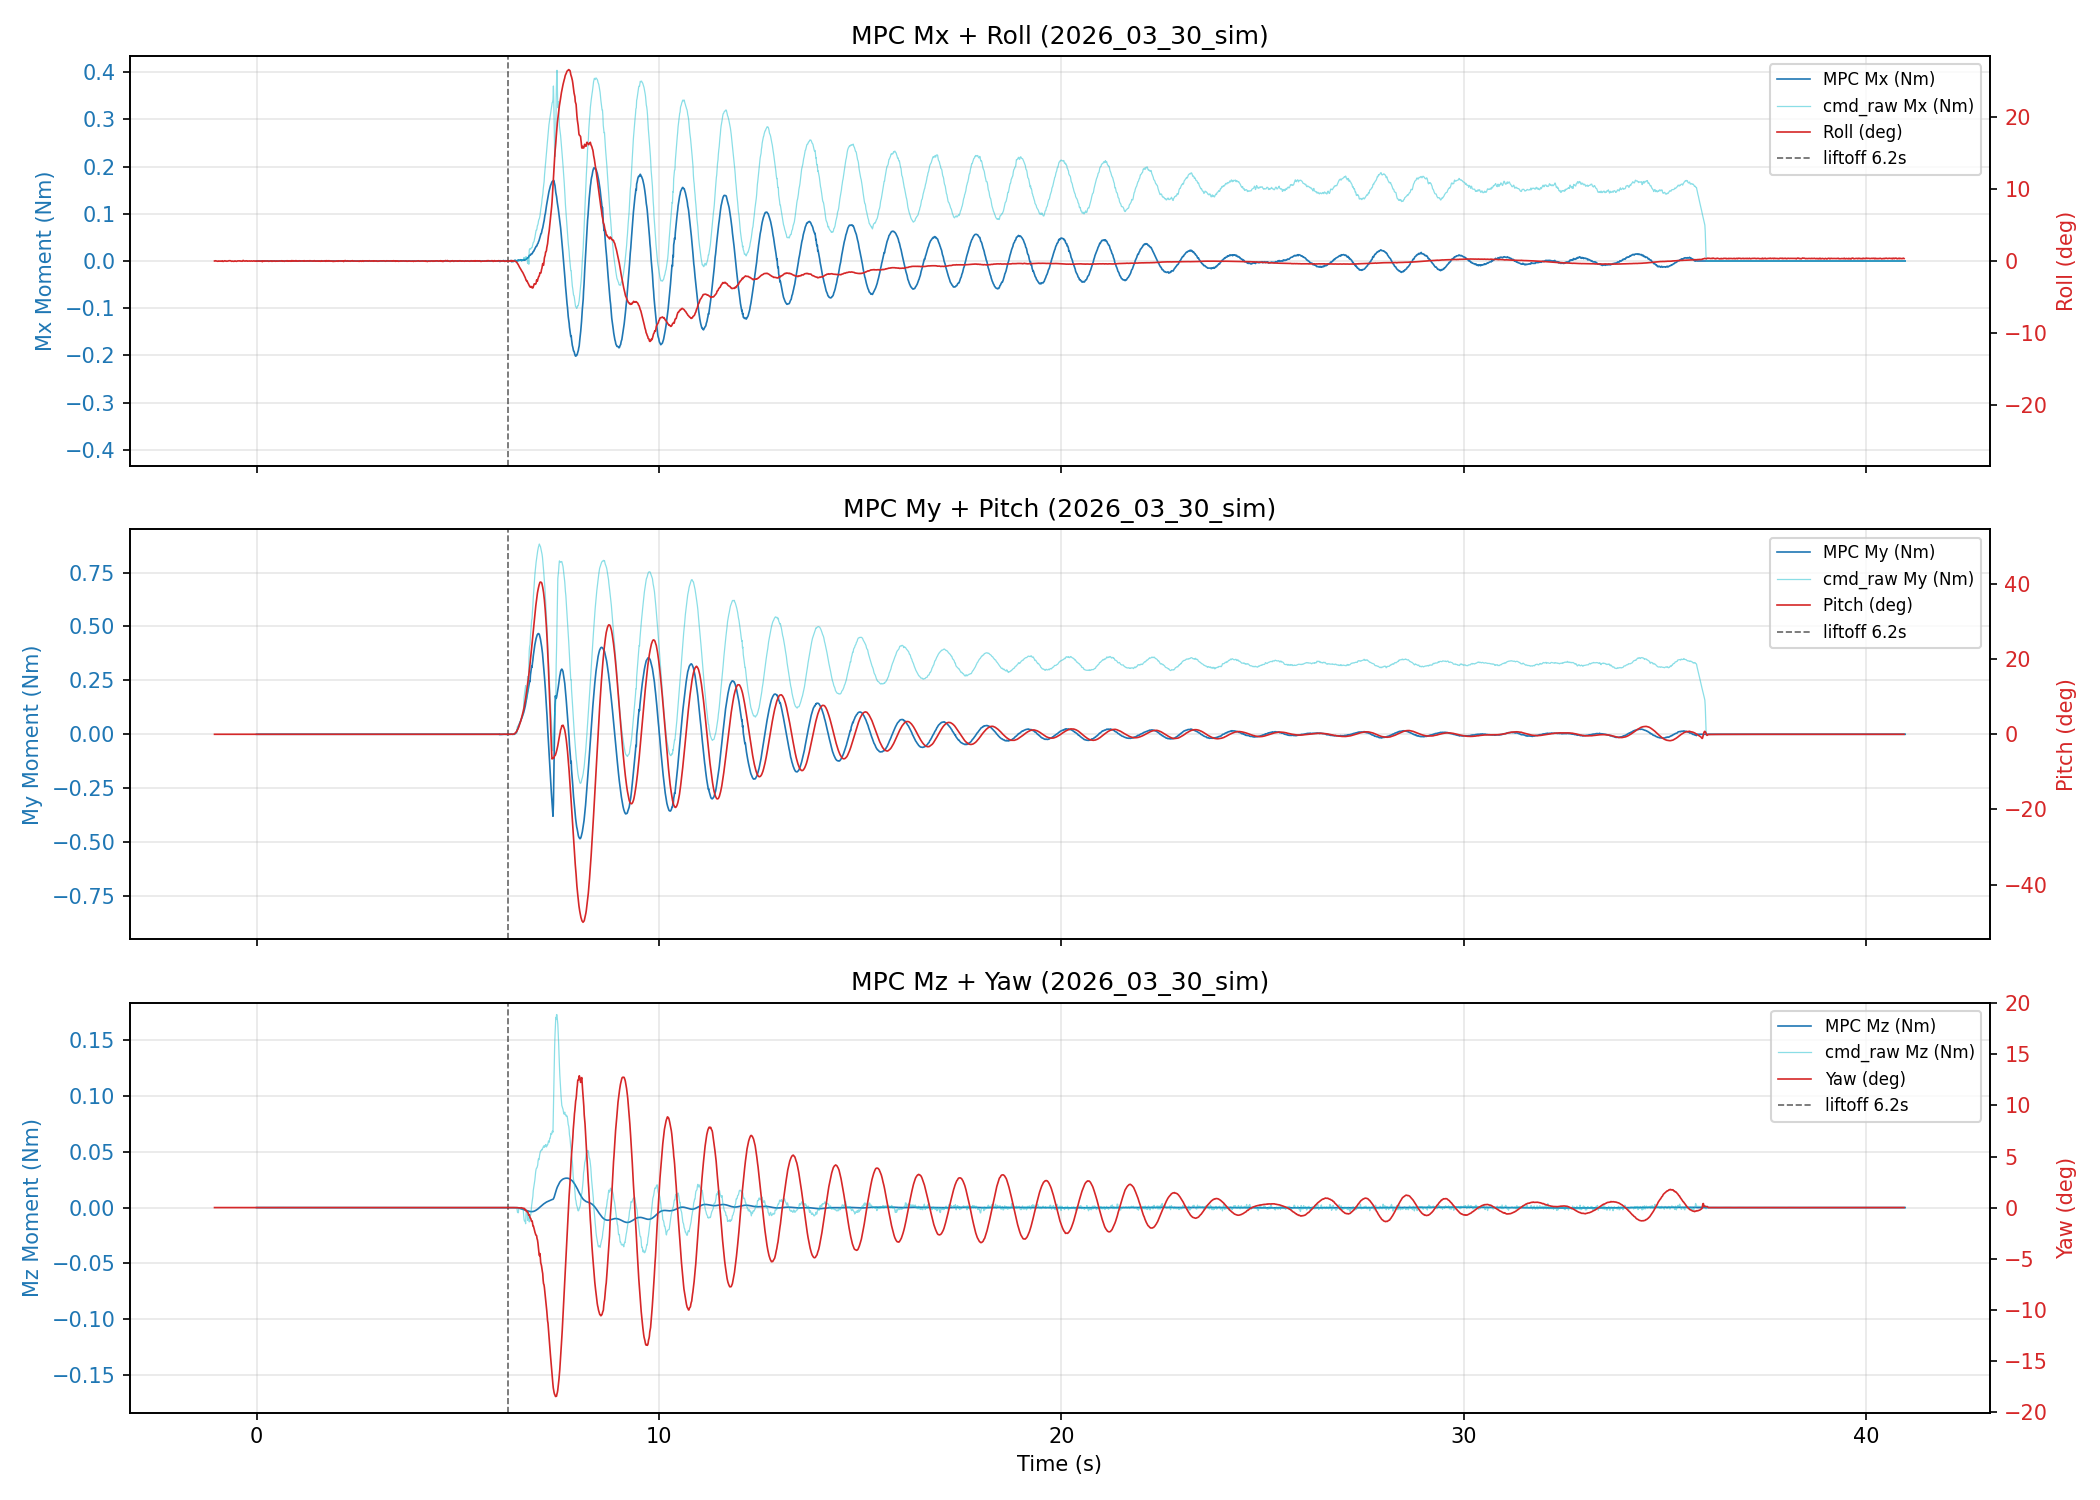
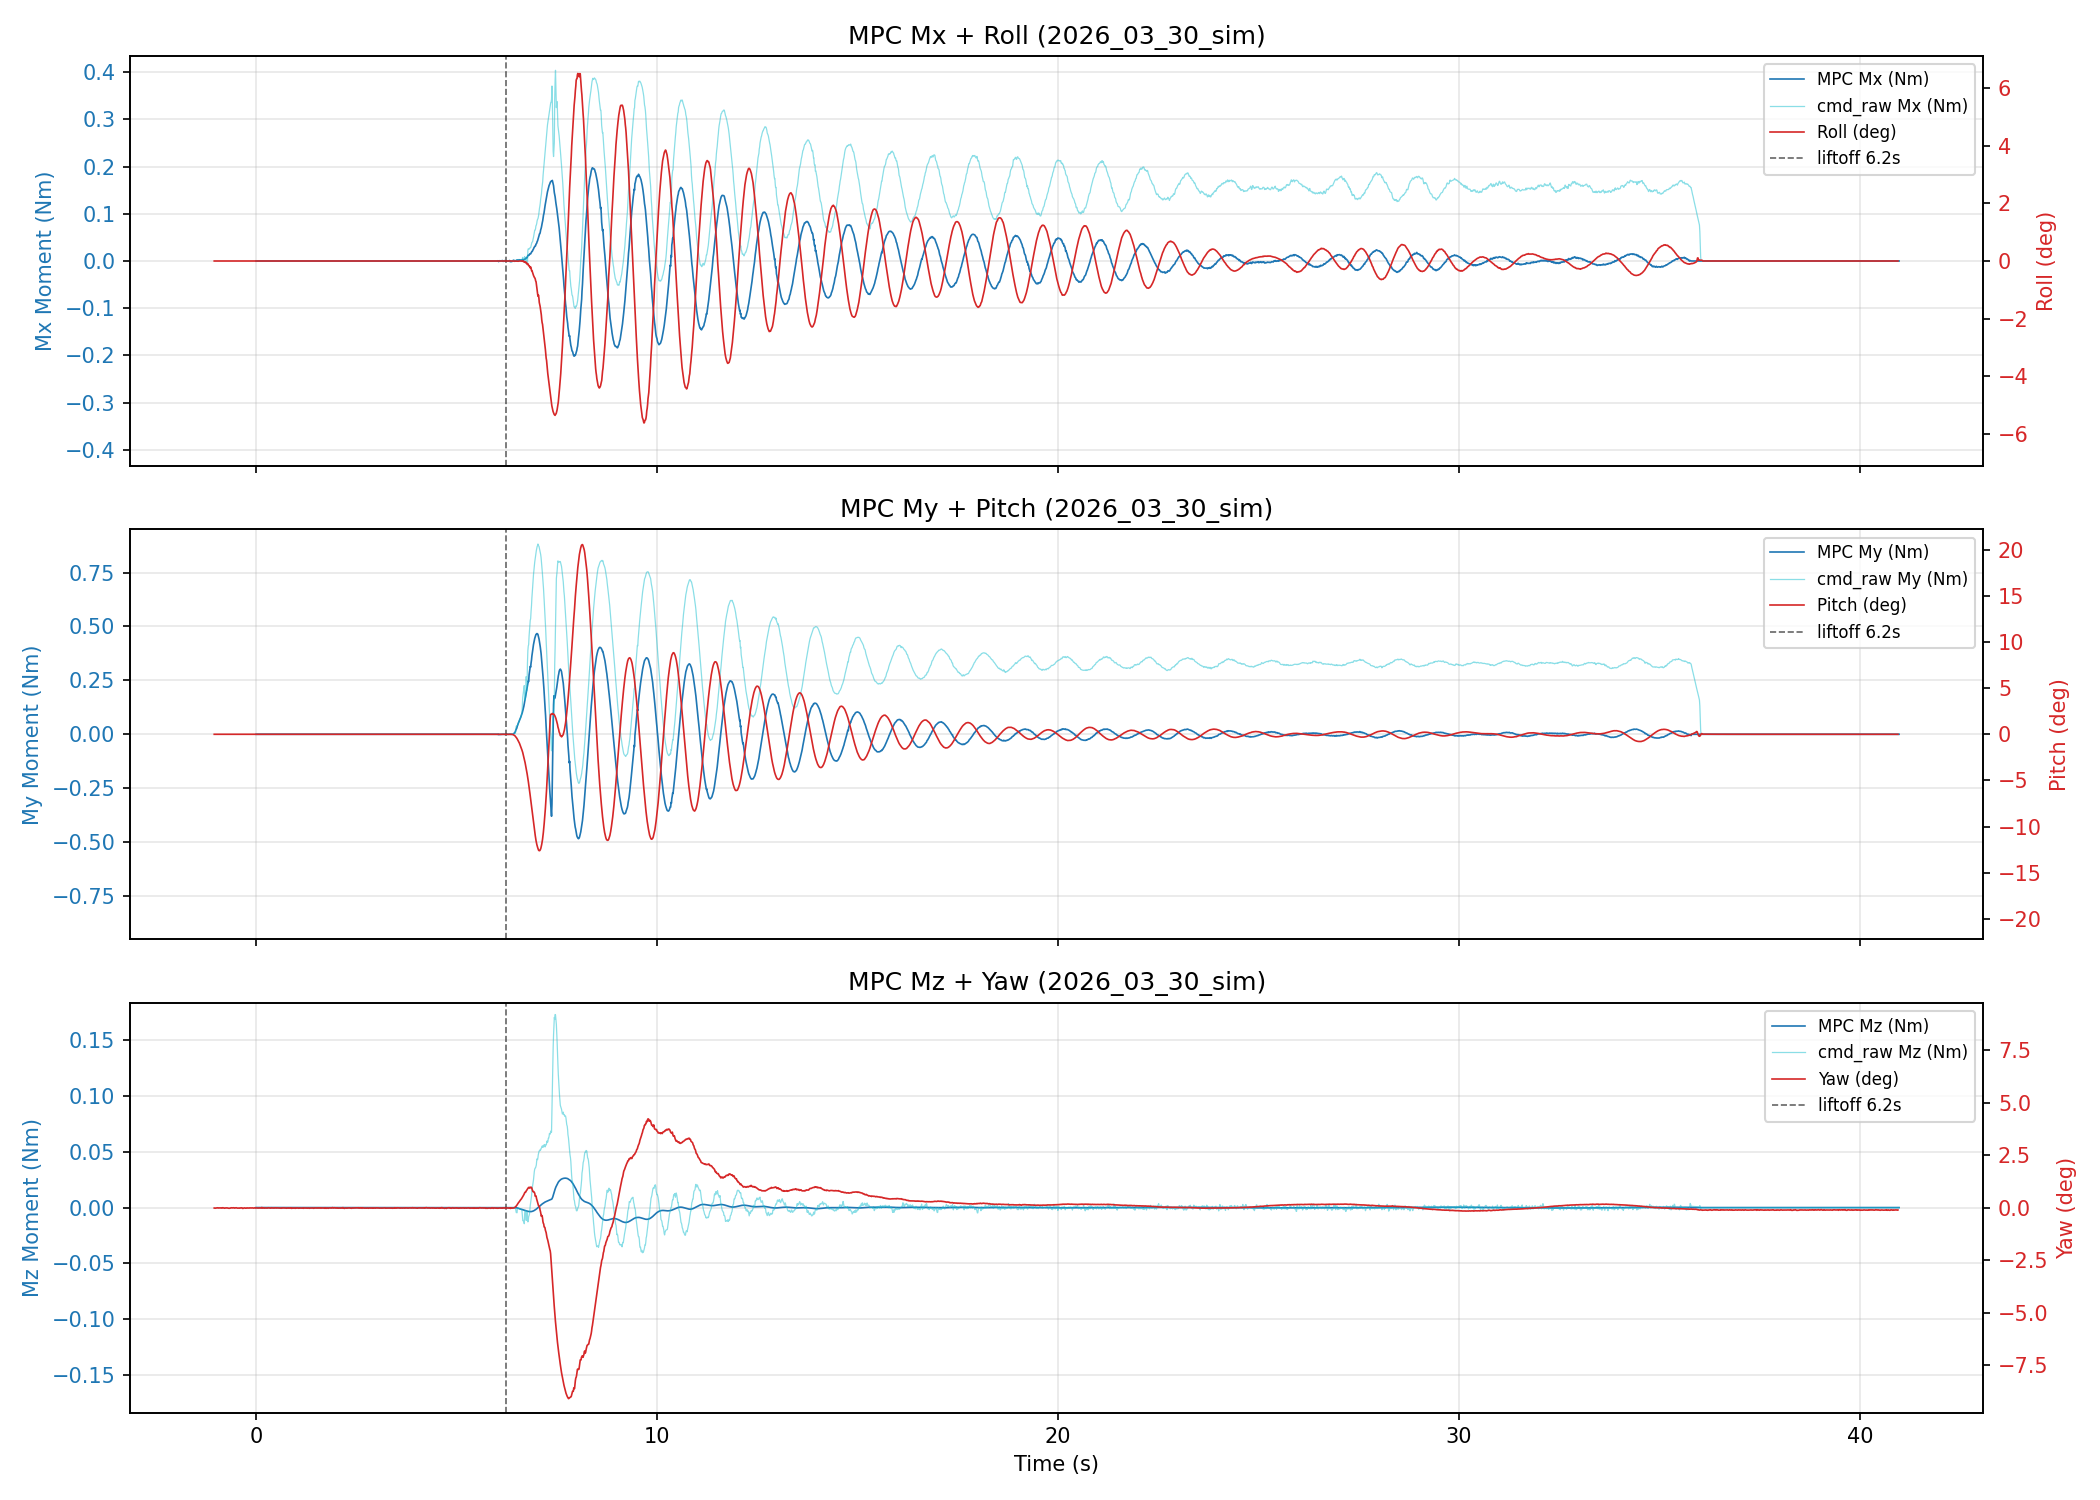
Fix odom_sim binary parsing offset (frame_id length difference)
odom_sim uses frame_id="S550/odom" + child="S550/base_link" causing
+16 byte offset vs odom (frame_id="map" + child="base_link").
Previous parse_odom hardcoded offsets for "map", reading garbage
quaternion (qx=0.272 instead of qw=1.0) causing false ±180 deg roll.

https://claude.ai/code/session_015hDTXF7MWidPDJrsc9iZ1y

diff --git a/bag_folder/plot_2026_03_30_sim.py b/bag_folder/plot_2026_03_30_sim.py
@@ -51,13 +51,13 @@ def parse_actual_rpm(data):
     return sec + nsec * 1e-9, rpms
 
 
-def parse_odom(data):
+def parse_odom(data, pos_off=44, q_off=68, v_off=388, w_off=412):
     sec = struct.unpack_from('<I', data, 4)[0]
     nsec = struct.unpack_from('<I', data, 8)[0]
-    px, py, pz = struct.unpack_from('<3d', data, 44)
-    qx, qy, qz, qw = struct.unpack_from('<4d', data, 68)
-    vx, vy, vz = struct.unpack_from('<3d', data, 388)
-    wx, wy, wz = struct.unpack_from('<3d', data, 412)
+    px, py, pz = struct.unpack_from('<3d', data, pos_off)
+    qx, qy, qz, qw = struct.unpack_from('<4d', data, q_off)
+    vx, vy, vz = struct.unpack_from('<3d', data, v_off)
+    wx, wy, wz = struct.unpack_from('<3d', data, w_off)
     t = sec + nsec * 1e-9
     return t, px, py, pz, qx, qy, qz, qw, vx, vy, vz, wx, wy, wz
 
@@ -84,7 +84,8 @@ def load_bag(db_path):
     sim_vx_w, sim_vy_w, sim_vz_w = [], [], []
     sim_roll, sim_pitch, sim_yaw = [], [], []
     for data, in c.fetchall():
-        t, px, py, pz, qx, qy, qz, qw, vx, vy, vz, wx, wy, wz = parse_odom(data)
+        t, px, py, pz, qx, qy, qz, qw, vx, vy, vz, wx, wy, wz = parse_odom(
+            data, pos_off=52, q_off=76, v_off=396, w_off=420)
         q = np.array([qx, qy, qz, qw]); norm = np.linalg.norm(q)
         if not np.isfinite(norm) or norm < 1e-10: continue
         R = Rotation.from_quat(q / norm)
@@ -102,7 +103,8 @@ def load_bag(db_path):
     gt_vx_w, gt_vy_w, gt_vz_w = [], [], []
     gt_roll, gt_pitch, gt_yaw = [], [], []
     for data, in c.fetchall():
-        t, px, py, pz, qx, qy, qz, qw, vx, vy, vz, wx, wy, wz = parse_odom(data)
+        t, px, py, pz, qx, qy, qz, qw, vx, vy, vz, wx, wy, wz = parse_odom(
+            data, pos_off=36, q_off=60, v_off=380, w_off=404)
         q = np.array([qx, qy, qz, qw]); norm = np.linalg.norm(q)
         if not np.isfinite(norm) or norm < 1e-10: continue
         R = Rotation.from_quat(q / norm)
